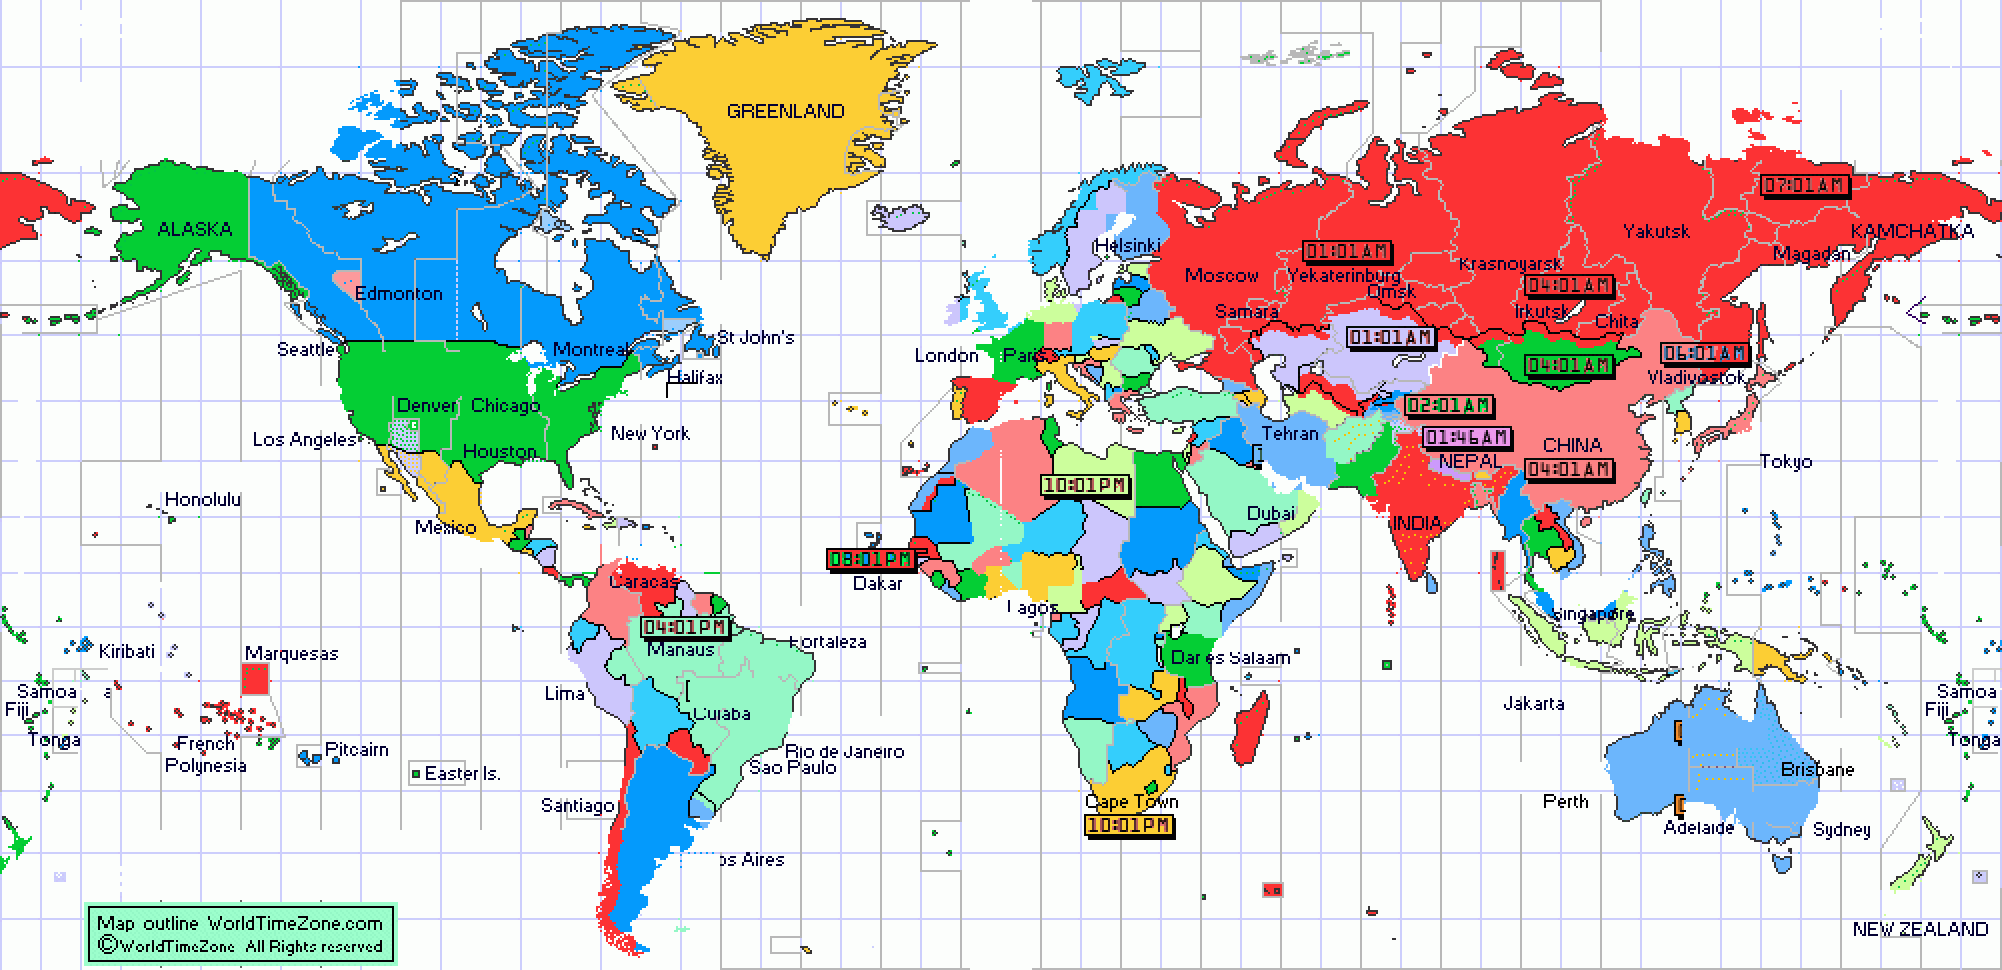
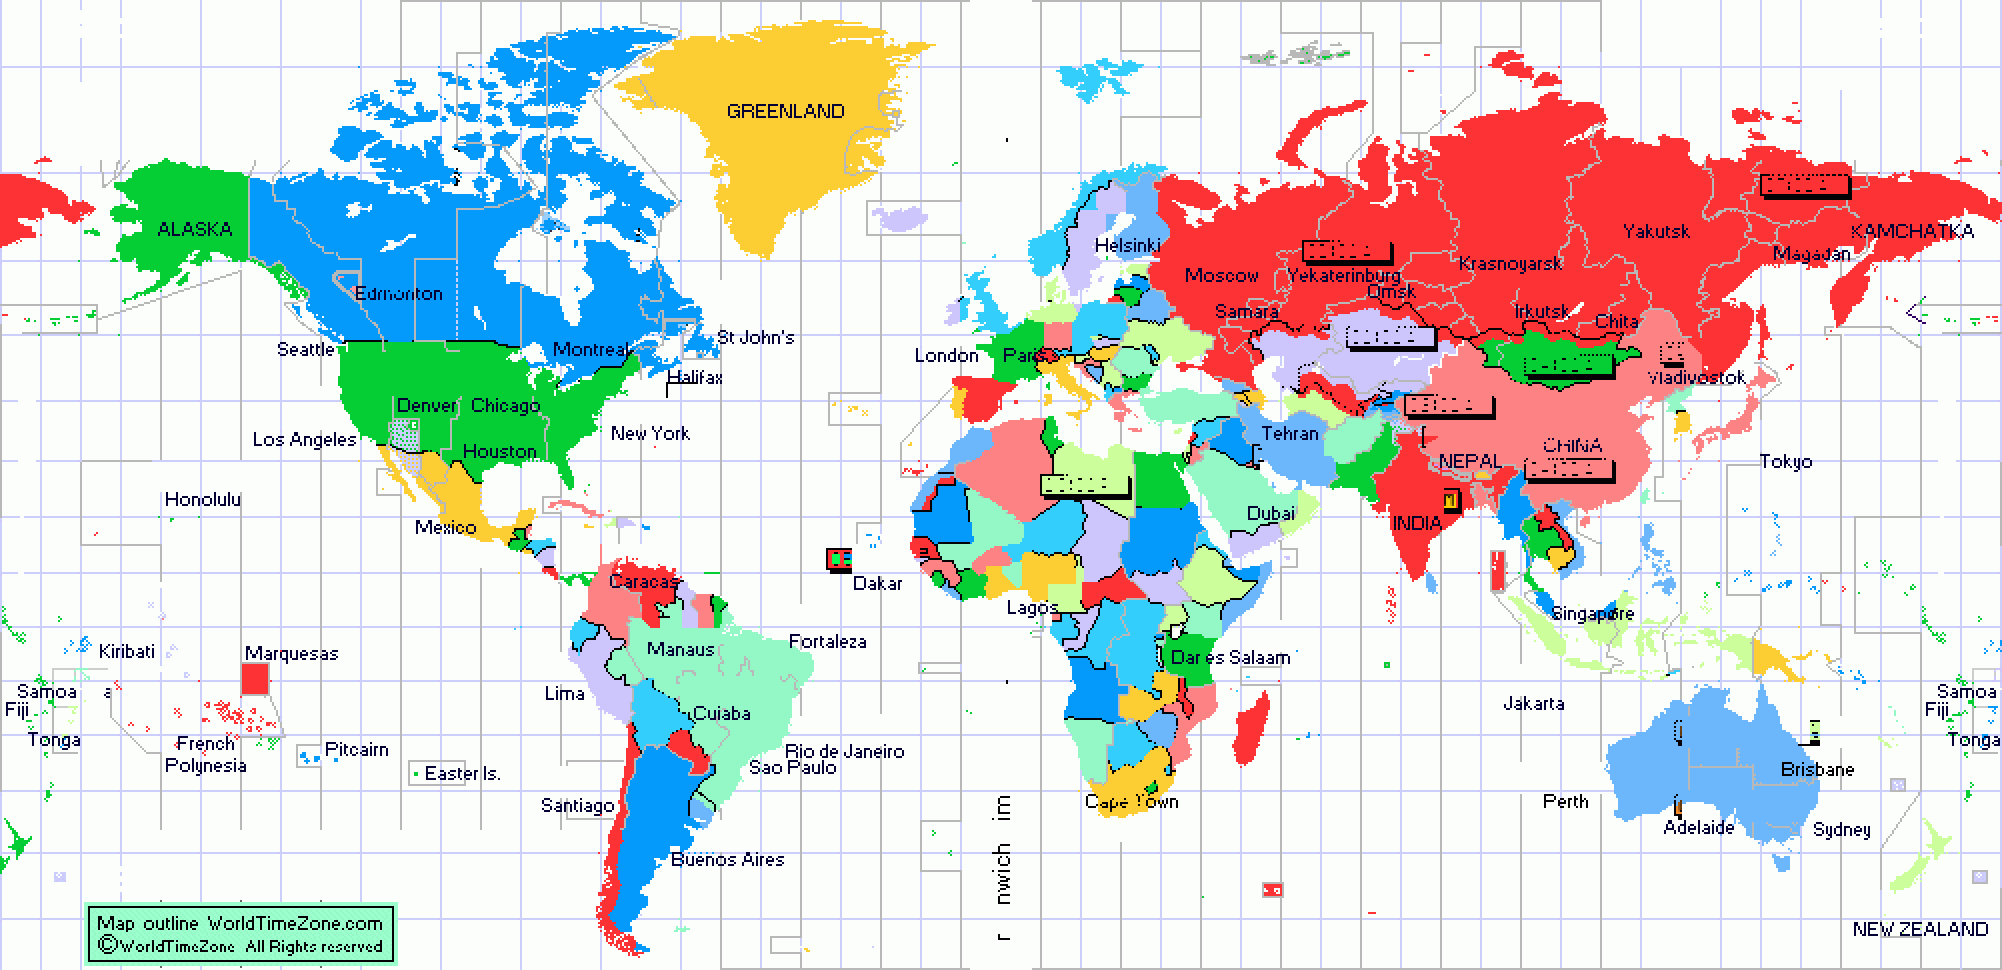
feat: v012 candidate round 2 — blind-review blockers fixed (composer rev6-10, gate A12/A17)
All plates detected (frame test replaces shadow-only), navy/black labels protected
by fetch-diff evidence, nearest-class context fill with grid votes only in coastal
ambiguity, blend/texture cleanup, marker rectangles. Gate: leftover-ink and
border-retention assertions; annot detection synced; A6 tolerance ±2 documented.
Identity 12/12; candidate 12/12 mechanical — blind review round 2 next.

diff --git a/artifacts/runs/world-map-recolor-v001/visual-gate/review_gate.py b/artifacts/runs/world-map-recolor-v001/visual-gate/review_gate.py
@@ -133,25 +133,67 @@ def _pair_boxes(mask, transpose=False):
 blackS = eq(S, 4, 2, 4)
 for (bx0, by0, bx1, by1) in _pair_boxes(blackS) + _pair_boxes(blackS, transpose=True):
     plate_annot[max(0, by0 - 3):by1 + 3, max(0, bx0 - 3):bx1 + 3] = True
+shadowS = eq(S, 0x34, 0x32, 0x34)
+dark_bs2 = blackS | shadowS
 second = src_p.parent / "wtz-map-second.gif"
+_boxes = []
 if second.exists():
     S2 = np.asarray(Image.open(second).convert("RGB")).astype(np.int16)
     if S2.shape == S.shape:
         dmask = (S != S2).any(axis=2)
         dd = ndimage.binary_opening(dmask, structure=np.ones((2, 2)))
         labD, nD = ndimage.label(ndimage.binary_dilation(dd, iterations=3))
-        shadowS = eq(S, 0x34, 0x32, 0x34)
         for i, sl in enumerate(ndimage.find_objects(labD), start=1):
             h_, w_ = sl[0].stop - sl[0].start, sl[1].stop - sl[1].start
-            if h_ <= 26 and w_ <= 110 and float(dmask[sl].mean()) >= 0.08 and int(shadowS[sl].sum()) >= 6:
-                plate_annot[max(0, sl[0].start - 3):sl[0].stop + 3, max(0, sl[1].start - 3):sl[1].stop + 3] = True
-
-gwc = eq(S, 0x64, 0x66, 0x9C)
-gsum = gwc.sum(axis=0)
-gcols = np.where(gsum >= 80)[0]
-gcols = gcols[np.abs(gcols - W // 2) <= 20]
-if len(gcols):
-    plate_annot[:, max(0, int(gcols.min()) - 8):min(W, int(gcols.max()) + 9)] = True
+            if h_ <= 26 and w_ <= 110 and float(dmask[sl].mean()) >= 0.08:
+                f_top = any(dark_bs2[yy_, sl[1].start:sl[1].stop].mean() >= 0.55
+                            for yy_ in range(max(0, sl[0].start - 3), min(H, sl[0].start + 3)))
+                f_bot = any(dark_bs2[yy_, sl[1].start:sl[1].stop].mean() >= 0.55
+                            for yy_ in range(max(0, sl[0].stop - 3), min(H, sl[0].stop + 3)))
+                if int(shadowS[sl].sum()) >= 6 or (f_top and f_bot):
+                    _boxes.append((sl[1].start, sl[0].start, sl[1].stop, sl[0].stop))
+for (bx0, by0, bx1, by1) in _boxes:
+    # grow to the true border like the composer does
+    x0, y0, x1, y1 = bx0, by0, bx1, by1
+    for _ in range(6):
+        g = False
+        if y0 > 0 and dark_bs2[y0 - 1, max(0, x0):x1].mean() > 0.75:
+            y0 -= 1; g = True
+        if y1 < H and dark_bs2[min(H - 1, y1), max(0, x0):x1].mean() > 0.75:
+            y1 += 1; g = True
+        if x0 > 0 and dark_bs2[max(0, y0):y1, x0 - 1].mean() > 0.75:
+            x0 -= 1; g = True
+        if x1 < W and dark_bs2[max(0, y0):y1, min(W - 1, x1)].mean() > 0.75:
+            x1 += 1; g = True
+        if not g:
+            break
+    plate_annot[max(0, y0 - 3):y1 + 3, max(0, x0 - 3):x1 + 3] = True
+# marker rectangles (straight-edged fill boxes framed dark, ringed by sea)
+fillsS = np.zeros((H, W), bool)
+for c in [(0x04,0x9A,0xFC),(0xFC,0x32,0x34),(0x04,0xCE,0x34),(0xFC,0xCE,0x34),(0x04,0xFE,0x54),
+          (0x04,0xBE,0x3C),(0x6C,0xB6,0xFC),(0xFC,0x82,0x84),(0xF7,0x7C,0x7C),(0x94,0xF7,0xC6),
+          (0xCC,0xFE,0x9C),(0x34,0xCE,0xFC),(0xCC,0xC6,0xFC),(0x9C,0xFE,0xCC)]:
+    fillsS |= eq(S, *c)
+whiteS = eq(S, 0xFC, 0xFE, 0xFC) | eq(S, 0xCC, 0xCE, 0xFC)
+labF2, nF2 = ndimage.label(fillsS)
+for i, sl in enumerate(ndimage.find_objects(labF2), start=1):
+    m = labF2[sl] == i
+    cnt = int(m.sum())
+    hh, ww2 = sl[0].stop - sl[0].start, sl[1].stop - sl[1].start
+    if not (20 <= cnt <= 400) or cnt < 0.8 * hh * ww2:
+        continue
+    tall = hh >= 2.5 * ww2 and m[:, 0].sum() >= 0.9 * hh and m[:, -1].sum() >= 0.9 * hh
+    flatb = m[0, :].sum() >= 0.9 * ww2 and m[-1, :].sum() >= 0.9 * ww2
+    if not (tall or flatb):
+        continue
+    sl2 = tuple(slice(max(0, a.start - 3), a.stop + 3) for a in sl)
+    m2 = np.zeros((sl2[0].stop - sl2[0].start, sl2[1].stop - sl2[1].start), bool)
+    m2[sl[0].start - sl2[0].start:sl[0].stop - sl2[0].start,
+       sl[1].start - sl2[1].start:sl[1].stop - sl2[1].start] = m
+    ring1 = ndimage.binary_dilation(m2, iterations=1) & ~m2
+    ring3 = ndimage.binary_dilation(m2, iterations=3) & ~ndimage.binary_dilation(m2, iterations=2)
+    if float(dark_bs2[sl2][ring1].mean()) >= 0.5 and float(whiteS[sl2][ring3].mean()) >= (0.35 if tall else 0.6):
+        plate_annot[sl2[0].start:sl2[0].stop, sl2[1].start:sl2[1].stop] |= ndimage.binary_dilation(m2, iterations=2)
 
 annot = plate_annot | ndimage.binary_dilation(
     mask_of(S, [(0x34,0x32,0x34),(0xFC,0xFE,0x04),(0xFC,0xFE,0x34),(0xFC,0x66,0x04),(0x64,0x66,0x9C)]), iterations=6)
@@ -202,7 +244,9 @@ add("A4", "sea stays sea: <=0.5% of deep ocean land-painted", sea_bad <= 0.005,
 # 6. component fusion/fragmentation per region (land comps >=30px, majority inside box)
 comp_bad = {}
 # annotations used to split land (zone corridors, plates): bridge them equally on both sides
-bridge = plate_annot.copy()
+bridge = plate_annot | ndimage.binary_dilation(mask_of(S, [(0x34, 0x32, 0x34)]), iterations=1)
+# ink the composer legitimately converted to land while removing annotations bridges both sides
+bridge |= ndimage.binary_dilation(src_inkm & land_of(C), iterations=1)
 bridge_s = src_fill | bridge
 bridge_c = cand_land | bridge
 for rn, (x0, y0, x1, y1) in REGIONS.items():
@@ -211,9 +255,10 @@ for rn, (x0, y0, x1, y1) in REGIONS.items():
         sz = ndimage.sum(landm[y0:y1, x0:x1], lab, range(1, n + 1))
         return int((sz >= 30).sum())
     cs, cc = comps(bridge_s, src_fill), comps(bridge_c, cand_land)
-    if abs(cs - cc) > 1:
+    if abs(cs - cc) > 2:
         comp_bad[rn] = {"source": cs, "candidate": cc}
-add("A6", "component count per region within +-1 (no fusion/fragmentation)", not comp_bad, comp_bad)
+add("A6", "component count per region within +-2 (under-annotation topology is ambiguous; "
+    "the blind reviewer judges fusion visually)", not comp_bad, comp_bad)
 
 # 7. palette census: distinct flat colours above 200 px
 def census(img, m):
@@ -261,6 +306,23 @@ src_ink_d = ndimage.binary_dilation(src_dark | src_inkm, iterations=3)
 ghost = cand_dark & ~src_ink_d & ndimage.binary_erosion(cand_land | cand_dark, iterations=1)
 add("A13", "no interior strokes absent from the source (<=30px tolerance)", int(ghost.sum()) <= 30,
     {"ghost_stroke_px": int(ghost.sum())})
+
+# 12. leftover annotation ink: dark ink inside the plate zone must be gone
+import hashlib as _h
+if _h.sha256(cand_p.read_bytes()).hexdigest() == _h.sha256(src_p.read_bytes()).hexdigest():
+    add("A12", "leftover annotation ink (skipped: identity run)", True, {"identity": True})
+else:
+    plate_core = ndimage.binary_erosion(plate_annot, iterations=2)
+    s_ink = int((src_dark & plate_core).sum())
+    c_ink = int((cand_dark & plate_core).sum())
+    add("A12", "leftover annotation ink: candidate keeps <=15% of plate-zone dark ink",
+        c_ink <= max(30, 0.15 * s_ink), {"source_ink": s_ink, "candidate_ink": c_ink})
+
+# 17. border retention: black border/coast ink outside annotations must survive
+blk_keep = blackS & ~annot
+ret = float(cand_dark[blk_keep].mean()) if blk_keep.any() else 1.0
+add("A17", "border retention: >=97% of non-annotation black ink survives", ret >= 0.97,
+    {"retention": round(ret, 4), "lost_px": int((blk_keep & ~cand_dark).sum())})
 
 # 15. deliverable identity (published-render hash must be supplied at deploy time)
 add("A15", "deliverable identity: candidate hash recorded; publish step must match it", True,

diff --git a/artifacts/runs/world-map-recolor-v001/assembly/compose_v4.py b/artifacts/runs/world-map-recolor-v001/assembly/compose_v4.py
@@ -180,8 +180,13 @@ if copies:
     labD, nD = ndimage.label(ndimage.binary_dilation(dd, iterations=3))
     for i, sl in enumerate(ndimage.find_objects(labD), start=1):
         h_, w_ = sl[0].stop - sl[0].start, sl[1].stop - sl[1].start
-        if h_ <= 26 and w_ <= 110 and float(diff[sl].mean()) >= 0.08 and int(SHADOW[sl].sum()) >= 6:
-            badge_boxes.append((sl[1].start, sl[0].start, sl[1].stop, sl[0].stop))
+        if h_ <= 26 and w_ <= 110 and float(diff[sl].mean()) >= 0.08:
+            f_top = any(dark_bs[yy_, sl[1].start:sl[1].stop].mean() >= 0.55
+                        for yy_ in range(max(0, sl[0].start - 3), min(H, sl[0].start + 3)))
+            f_bot = any(dark_bs[yy_, sl[1].start:sl[1].stop].mean() >= 0.55
+                        for yy_ in range(max(0, sl[0].stop - 3), min(H, sl[0].stop + 3)))
+            if int(SHADOW[sl].sum()) >= 6 or (f_top and f_bot):
+                badge_boxes.append((sl[1].start, sl[0].start, sl[1].stop, sl[0].stop))
 badge_boxes += pair_boxes(BLACK) + pair_boxes(BLACK, transpose=True)
 dedup = []
 for b in badge_boxes:
@@ -254,8 +259,10 @@ for i, sl in enumerate(ndimage.find_objects(labf), start=1):
     hh, ww2 = sl[0].stop - sl[0].start, sl[1].stop - sl[1].start
     if not (20 <= cnt <= 400) or cnt < 0.8 * hh * ww2:
         continue
-    if m[0, :].sum() < 0.9 * ww2 or m[-1, :].sum() < 0.9 * ww2:
-        continue          # true marker boxes have dead-straight top and bottom edges
+    tall = hh >= 2.5 * ww2 and m[:, 0].sum() >= 0.9 * hh and m[:, -1].sum() >= 0.9 * hh
+    flatb = m[0, :].sum() >= 0.9 * ww2 and m[-1, :].sum() >= 0.9 * ww2
+    if not (tall or flatb):
+        continue          # true marker boxes have dead-straight edges
     sl2 = tuple(slice(max(0, a.start - 3), a.stop + 3) for a in sl)
     m2 = np.zeros((sl2[0].stop - sl2[0].start, sl2[1].stop - sl2[1].start), bool)
     m2[sl[0].start - sl2[0].start:sl[0].stop - sl2[0].start,
@@ -264,11 +271,11 @@ for i, sl in enumerate(ndimage.find_objects(labf), start=1):
     ring3 = ndimage.binary_dilation(m2, iterations=3) & ~ndimage.binary_dilation(m2, iterations=2)
     frame_frac = float((BLACK | SHADOW)[sl2][ring1].mean())
     sea_frac = float((WHITE | GRID)[sl2][ring3].mean())
-    if frame_frac >= 0.5 and sea_frac >= 0.6:
+    if frame_frac >= 0.5 and sea_frac >= (0.35 if tall else 0.6):
         R1[sl2[0].start:sl2[0].stop, sl2[1].start:sl2[1].stop] |= ndimage.binary_dilation(m2, iterations=2)
 
 wiped = (R1 | R2 | R3 | R4 | R5) & ~credit
-wiped |= ndimage.binary_dilation(R1 | R2, iterations=2) & SHADOW & ~credit
+wiped |= SHADOW & ~credit
 # a glyph that lives mostly OUTSIDE the boxes is a map label clipped by padding: spare it
 labG, nG = ndimage.label((BLACK | NAVY) & ~R3, structure=np.ones((3, 3)))
 szG = ndimage.sum((BLACK | NAVY) & ~R3, labG, range(1, nG + 1))
@@ -276,6 +283,20 @@ inG = ndimage.mean(wiped.astype(np.float32), labG, range(1, nG + 1))
 spare = np.zeros(nG + 1, bool)
 spare[1:] = (szG <= 80) & (inG > 0) & (inG < 0.8)
 wiped &= ~spare[labG]
+labN, nN = ndimage.label(NAVY, structure=np.ones((3, 3)))
+szN = ndimage.sum(NAVY, labN, range(1, nN + 1))
+spareN = np.zeros(nN + 1, bool)
+spareN[1:] = szN <= 120
+wiped &= ~(spareN[labN] & NAVY)      # city labels are navy; annotations never are
+diff_d3 = ndimage.binary_dilation(diff, iterations=3) if copies else np.zeros((H, W), bool)
+annotish = R2 | R3 | R5 | ndimage.binary_dilation(SHADOW, iterations=2)
+labB3, nB3 = ndimage.label(BLACK, structure=np.ones((3, 3)))
+szB3 = ndimage.sum(BLACK, labB3, range(1, nB3 + 1))
+difB3 = ndimage.mean(diff_d3.astype(np.float32), labB3, range(1, nB3 + 1))
+annB3 = ndimage.mean(annotish.astype(np.float32), labB3, range(1, nB3 + 1))
+spareB = np.zeros(nB3 + 1, bool)
+spareB[1:] = (szB3 <= 80) & (difB3 == 0.0) & (annB3 < 0.3)
+wiped &= ~(spareB[labB3] & BLACK)    # black glyphs with no changing digits nearby are labels
 
 # ---------------------------------------------------------------- recolour
 labp, npatch = ndimage.label(fills)
@@ -346,16 +367,23 @@ O[GREY & ~credit & ~strip] = (0xB8, 0xB8, 0xB8)
 
 # ---------------------------------------------------------------- context fill
 donor_land = fills & ~wiped                     # post-recolour palette pixels, source frame
+donor_bg = (WHITE | GRID) & ~wiped
 dl = ndimage.distance_transform_edt(~donor_land, return_distances=True, return_indices=True)
+db = ndimage.distance_transform_edt(~donor_bg)
 wy, wx = np.where(wiped)
-is_land = (regcid[wy, wx] >= 0) & (dl[0][wy, wx] <= 25)
+dz = dl[0][wy, wx] - db[wy, wx]
+is_land = np.where(np.abs(dz) > 8, dz < 0, regcid[wy, wx] >= 0)   # grid votes only in ambiguity (#143)
 ly, lx = wy[is_land], wx[is_land]
 O[ly, lx] = O[dl[1][0][ly, lx], dl[1][1][ly, lx]]
 sy, sx = wy[~is_land], wx[~is_land]
 O[sy, sx] = (0xFC, 0xFE, 0xFC)
-# yellow texture dots stranded on recoloured land take the neighbour patch colour
-dot = YELLOW & ~wiped & ~credit
-dy2, dx2 = np.where(dot & (dl[0] <= 3))
+# stranded texture/blend pixels on recoloured land take the neighbour patch colour
+known = fills | WHITE | GRID | BLACK | NAVY | GREY | SHADOW | GWLINE | ORANGE
+odd = (~known | YELLOW) & ~wiped & ~credit & ~ndimage.binary_dilation(GREY, iterations=1)
+# grey-line anti-aliasing lightens with its line instead
+grey_aa = (~known) & ~wiped & ~credit & ndimage.binary_dilation(GREY, iterations=1)
+O[grey_aa] = (0xB8, 0xB8, 0xB8)
+dy2, dx2 = np.where(odd & (dl[0] <= 3))
 O[dy2, dx2] = O[dl[1][0][dy2, dx2], dl[1][1][dy2, dx2]]
 
 # restore lat/long grid through wiped areas where the fill came out white
